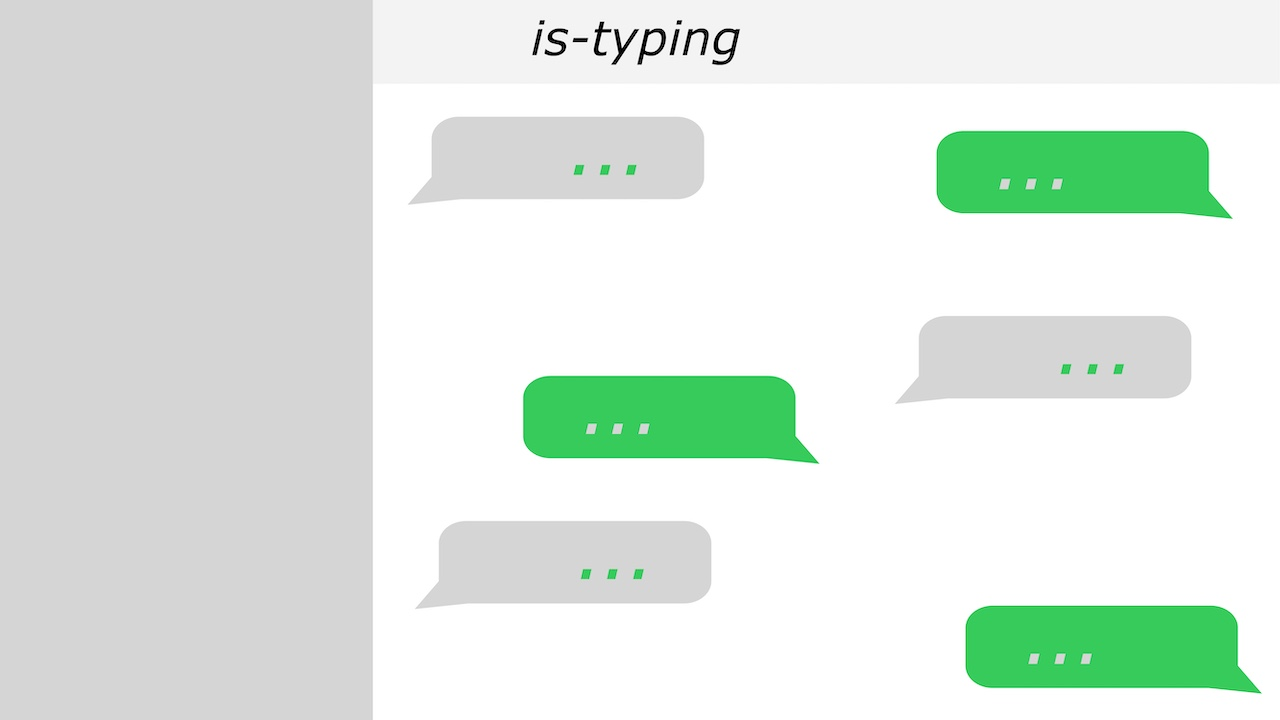
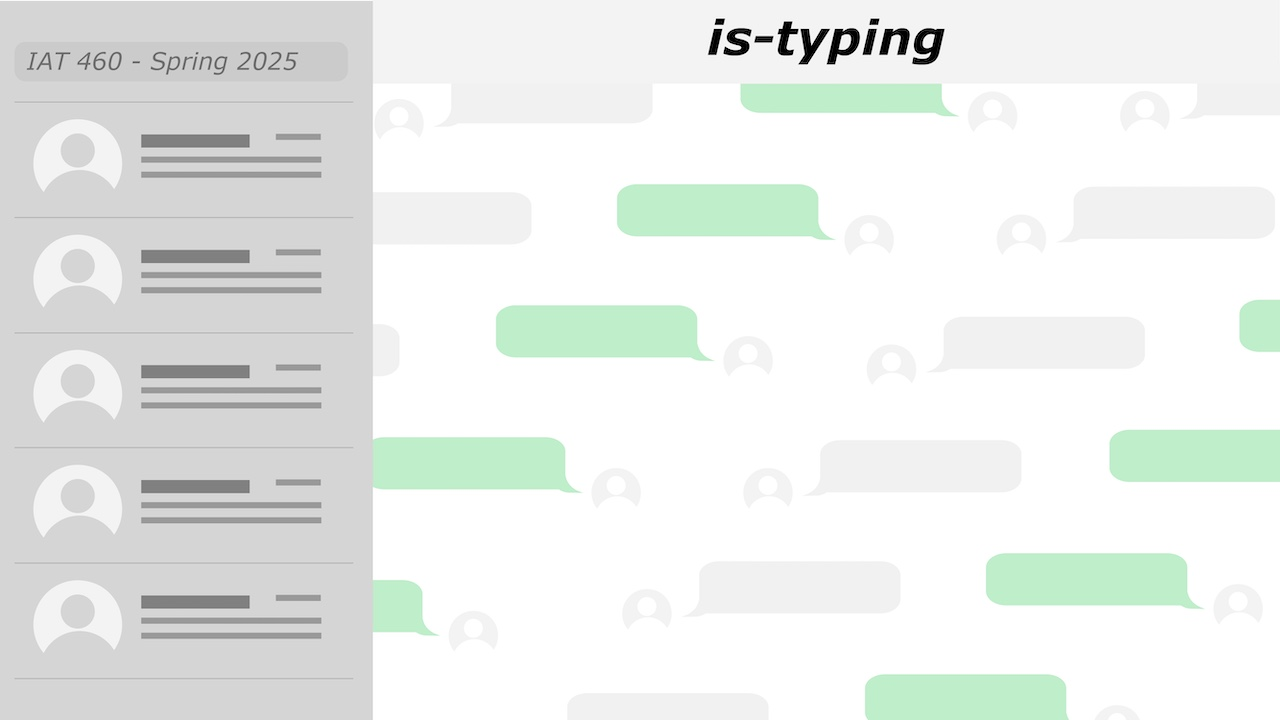
Updated Text Screen visuals

diff --git a/istyping/istyping.py b/istyping/istyping.py
@@ -1,7 +1,7 @@
 import pygame #used this video to review pygame basics: https://www.youtube.com/watch?v=y9VG3Pztok8
 
 #referenced this link to import my own classes: https://csatlas.com/python-import-file-module/
-#import UI.GUI as GUI
+import UI.GUI as GUI
 import GrammarSets.grammarprocessing as grammar
 import GrammarSets.friend as friend
 import GrammarSets.date as date
@@ -12,6 +12,52 @@ import Arduino.arduniohandler as Arduino
 #import time
 
 #referenced this for classes: https://www.w3schools.com/python/python_classes.asp
+
+#initialize/setup pygame
+pygame.init()
+pygame.display.set_caption("is-typing")
+
+#intiliaze fonts
+pygame.font.init()
+font_path = pygame.font.match_font("verdana")
+h1 = pygame.font.Font(font_path, 32)
+h2 = pygame.font.Font(font_path, 16)
+h3 = pygame.font.Font(font_path, 12)
+
+#states for FSM
+MAIN = 0
+INTRO = 1
+FRIEND = 2
+DATE = 3
+BOSS = 4
+END = 5
+
+state = MAIN
+run = True
+
+#current speaker to give to Gemini API for context
+currSpeaker = ""
+
+#variables to keep track of which option was selected by the user
+optionHigh = "Anxious Response!"
+optionNeu = "Neutral Response!"
+optionLow = "Lowkey Response!"
+
+HIGH = 0
+NEUTRAL = 1
+LOW = 2
+
+message_counter = 1
+selected = -1
+
+#setup the window
+SCREEN_WIDTH = 1280
+SCREEN_HEIGHT = 720
+screen = pygame.display.set_mode((1920,1080))
+resized_screen = pygame.transform.scale(screen, (SCREEN_WIDTH, SCREEN_HEIGHT))
+
+window = pygame.display.set_mode((SCREEN_WIDTH, SCREEN_HEIGHT))
+window.blit(resized_screen, (0,0))
 
 #button class, creates a button which has a visual component (rectangle) and text on top of it
 class Button:
@@ -76,6 +122,13 @@ class Fader:
         if self.fading == 'OUT':
             self.alpha += 17
             if self.alpha >= 255:
+                global state, currScreen, currSpeaker, countingdown 
+                if state == MAIN:
+                    preferences.setup()
+                    state = FRIEND      
+                    countingdown = True
+                    currSpeaker = "friend"
+                    currScreen = FriendScreen()
                 self.fading = 'IN'
         else:
             self.alpha -= 17
@@ -83,52 +136,6 @@ class Fader:
                 self.fading = None  
         self.surf.set_alpha(self.alpha)
   
-#initialize/setup pygame
-pygame.init()
-pygame.display.set_caption("is-typing")
-
-#intiliaze fonts
-pygame.font.init()
-font_path = pygame.font.match_font("verdana")
-h1 = pygame.font.Font(font_path, 32)
-h2 = pygame.font.Font(font_path, 16)
-h3 = pygame.font.Font(font_path, 12)
-
-#states for FSM
-MAIN = 0
-INTRO = 1
-FRIEND = 2
-DATE = 3
-BOSS = 4
-END = 5
-
-state = MAIN
-run = True
-
-#current speaker to give to Gemini API for context
-currSpeaker = ""
-
-#variables to keep track of which option was selected by the user
-optionHigh = "Anxious Response!"
-optionNeu = "Neutral Response!"
-optionLow = "Lowkey Response!"
-
-HIGH = 0
-NEUTRAL = 1
-LOW = 2
-
-message_counter = 1
-selected = -1
-
-#setup the window
-SCREEN_WIDTH = 1280
-SCREEN_HEIGHT = 720
-screen = pygame.display.set_mode((1920,1080))
-resized_screen = pygame.transform.scale(screen, (SCREEN_WIDTH, SCREEN_HEIGHT))
-
-window = pygame.display.set_mode((SCREEN_WIDTH, SCREEN_HEIGHT))
-window.blit(resized_screen, (0,0))
-
 # create an instance for Arduino Board
 analogPrinter = Arduino.AnalogPrinter()
 
@@ -153,14 +160,14 @@ class HomeScreen:
 #friendscreen class: holds UI and messages for friend dialogue
 class FriendScreen:
     def __init__(self):
-        self.test = pygame.Rect(100, 100, 250, 75)
         self.name = "FRIEND"
         self.currMessage = grammar.generate('S', friend.friend_grammar1)
         self.text = h1.render(self.currMessage, True, (0,0,0))
         self.posButton = Button(SCREEN_WIDTH-225, SCREEN_HEIGHT-200, 250, 40,  pygame.Rect(SCREEN_WIDTH/2, SCREEN_HEIGHT/2, 250, 40), (0,255,0), h1.render('Start', False, (0,0,0)))
         self.neuButton = Button(SCREEN_WIDTH-225, SCREEN_HEIGHT-150, 250, 40,  pygame.Rect(SCREEN_WIDTH/2, SCREEN_HEIGHT/2, 250, 40), (0,255,0), h1.render('Start', False, (0,0,0)))
         self.negButton = Button(SCREEN_WIDTH-225, SCREEN_HEIGHT-100, 250, 40,  pygame.Rect(SCREEN_WIDTH/2, SCREEN_HEIGHT/2, 250, 40), (0,255,0), h1.render('Start', False, (0,0,0)))
-        
+        self.bg = pygame.image.load("istyping/images/text_screen_bg.jpg")
+
         global optionHigh
         global optionNeu
         global optionLow
@@ -173,14 +180,14 @@ class FriendScreen:
 #datescreen class: holds UI and messages for date dialogue
 class DateScreen:
     def __init__(self):
-        self.test = pygame.Rect(100, 100, 250, 75)
         self.name = "DATE"
         self.currMessage = ""
         self.text = h1.render(self.currMessage, True, (0,0,0))
         self.posButton = Button(SCREEN_WIDTH-225, SCREEN_HEIGHT-200, 250, 40,  pygame.Rect(SCREEN_WIDTH/2, SCREEN_HEIGHT/2, 250, 40), (0,255,0), h1.render('Start', False, (0,0,0)))
         self.neuButton = Button(SCREEN_WIDTH-225, SCREEN_HEIGHT-150, 250, 40,  pygame.Rect(SCREEN_WIDTH/2, SCREEN_HEIGHT/2, 250, 40), (0,255,0), h1.render('Start', False, (0,0,0)))
         self.negButton = Button(SCREEN_WIDTH-225, SCREEN_HEIGHT-100, 250, 40,  pygame.Rect(SCREEN_WIDTH/2, SCREEN_HEIGHT/2, 250, 40), (0,255,0), h1.render('Start', False, (0,0,0)))
-        
+        self.bg = pygame.image.load("istyping/images/text_screen_bg.jpg")
+
         global optionHigh
         global optionNeu
         global optionLow
@@ -193,14 +200,14 @@ class DateScreen:
 #bossscreen class: holds UI and messages for boss dialogue
 class BossScreen:
     def __init__(self):
-        self.test = pygame.Rect(100, 100, 250, 75)
         self.name = "BOSS"
         self.currMessage = grammar.generate('S', boss.boss_grammar1)
         self.text = h1.render(self.currMessage, True, (0,0,0))
         self.posButton = Button(SCREEN_WIDTH-225, SCREEN_HEIGHT-200, 250, 40,  pygame.Rect(SCREEN_WIDTH/2, SCREEN_HEIGHT/2, 250, 40), (0,255,0), h1.render('Start', False, (0,0,0)))
         self.neuButton = Button(SCREEN_WIDTH-225, SCREEN_HEIGHT-150, 250, 40,  pygame.Rect(SCREEN_WIDTH/2, SCREEN_HEIGHT/2, 250, 40), (0,255,0), h1.render('Start', False, (0,0,0)))
         self.negButton = Button(SCREEN_WIDTH-225, SCREEN_HEIGHT-100, 250, 40,  pygame.Rect(SCREEN_WIDTH/2, SCREEN_HEIGHT/2, 250, 40), (0,255,0), h1.render('Start', False, (0,0,0)))
-        
+        self.bg = pygame.image.load("istyping/images/text_screen_bg.jpg")
+
         global optionHigh
         global optionNeu
         global optionLow
@@ -255,53 +262,52 @@ def mainLoop():
             if(startButton.checkMousePress(pos[0], pos[1])):
                 print("start!")
                 fader.next()
-                preferences.setup()
-                state = FRIEND      
-                global currSpeaker, countingdown 
-                countingdown = True
-                currSpeaker = "friend"
-                currScreen = FriendScreen()
             elif(aboutButton.checkMousePress(pos[0], pos[1])):
                 print("about!")  
 
 #text loop - used by the friend, date and boss screens to draw the UI
 def textScreen():
     screen.fill((255,255,255))
-    pygame.draw.rect(screen, (0,255,0), currScreen.test)
-    screen.blit(currScreen.text, currScreen.test)
+    screen.blit(currScreen.bg.convert(), (0,0))
+
+    screen.blit(GUI.profile_icon.convert(), (38,216))
+    their_text = screen.blit(GUI.text_them.convert(), (155,151))
+    screen.blit(currScreen.text, their_text)
+    screen.blit(GUI.profile_icon.convert(), (1143,595))
+
 
     #set up the three text options and draw them
     global optionHigh, optionNeu, optionLow, arduino_countdown
 
-    posButton = currScreen.posButton
-    neuButton = currScreen.neuButton
-    negButton = currScreen.negButton
+    # posButton = currScreen.posButton
+    # neuButton = currScreen.neuButton
+    # negButton = currScreen.negButton
 
-    posButton.draw()
-    neuButton.draw()
-    negButton.draw()
+    # posButton.draw()
+    # neuButton.draw()
+    # negButton.draw()
+    #(posButton.checkMousePress(pygame.mouse.get_pos()[0], pygame.mouse.get_pos()[1])) or
+    #(neuButton.checkMousePress(pygame.mouse.get_pos()[0], pygame.mouse.get_pos()[1])) or
+    # (negButton.checkMousePress(pygame.mouse.get_pos()[0], pygame.mouse.get_pos()[1])) or
 
-    highIndic = pygame.Rect(SCREEN_WIDTH-50, SCREEN_HEIGHT-220, 40, 40)
-    if (posButton.checkMousePress(pygame.mouse.get_pos()[0], pygame.mouse.get_pos()[1])) or analogPrinter.data > (1/3)*2:
-        pygame.draw.rect(screen, (255,0,0), highIndic)
-    else:
-        pygame.draw.rect(screen, (0,255,0), highIndic)
+    if analogPrinter.data > (1/3)*2:
+        screen.blit(GUI.high_indic.convert(), (593,313))
 
-    neutralIndic = pygame.Rect(SCREEN_WIDTH-50, SCREEN_HEIGHT-170, 40, 40)
-    if (neuButton.checkMousePress(pygame.mouse.get_pos()[0], pygame.mouse.get_pos()[1])) or (analogPrinter.data >= 1/3 and analogPrinter.data <= (1/3)*2):
-        pygame.draw.rect(screen, (255,0,0), neutralIndic)
-    else:
-        pygame.draw.rect(screen, (0,255,0), neutralIndic)
+    if (analogPrinter.data >= 1/3 and analogPrinter.data <= (1/3)*2):
+        screen.blit(GUI.neutral_indic.convert(), (593,441))
 
-    lowIndic = pygame.Rect(SCREEN_WIDTH-50, SCREEN_HEIGHT-120, 40, 40)
-    if (negButton.checkMousePress(pygame.mouse.get_pos()[0], pygame.mouse.get_pos()[1])) or analogPrinter.data < 1/3:
-        pygame.draw.rect(screen, (255,0,0), lowIndic)
-    else:
-        pygame.draw.rect(screen, (0,255,0), lowIndic)
+    if  analogPrinter.data < 1/3:
+        screen.blit(GUI.low_indic.convert(), (593,562))
+
+    screen.blit(GUI.thinking_you.convert(), (684,289))
+    screen.blit(GUI.thinking_you.convert(), (684,417))
+    screen.blit(GUI.thinking_you.convert(), (684,539))
 
     screen.blit(h3.render(optionLow, True, (0,0,0)), (SCREEN_WIDTH/2, SCREEN_HEIGHT/2 + 250))
     screen.blit(h3.render(optionNeu, True, (0,0,0)), (SCREEN_WIDTH/2, SCREEN_HEIGHT/2 + 200))
     screen.blit(h3.render(optionHigh, True, (0,0,0)), (SCREEN_WIDTH/2, SCREEN_HEIGHT/2 + 150))
+    
+
     screen.blit(h2.render(currSpeaker, True, (0,0,0)), (20, 20))
     screen.blit(h2.render(str(arduino_countdown), True, (0,0,0)), (20, 40))
 
@@ -402,26 +408,26 @@ def textScreen():
         elif event.type == pygame.MOUSEBUTTONDOWN: #mouse click
             pos = pygame.mouse.get_pos()
 
-            global selected
+            # global selected
             
-            if state == FRIEND or state == DATE:
-                if message_counter <= 4:
-                    if(posButton.checkMousePress(pos[0], pos[1])):
-                        selected = HIGH
-                    elif(neuButton.checkMousePress(pos[0], pos[1])):
-                        selected = NEUTRAL
-                    elif(negButton.checkMousePress(pos[0], pos[1])):
-                        selected = LOW
-                    get_messages()
-            elif state == BOSS:
-                if message_counter <= 5:
-                    if(posButton.checkMousePress(pos[0], pos[1])):
-                        selected = HIGH
-                    elif(neuButton.checkMousePress(pos[0], pos[1])):
-                        selected = NEUTRAL
-                    elif(negButton.checkMousePress(pos[0], pos[1])):
-                        selected = LOW
-                    get_messages()
+            # if state == FRIEND or state == DATE:
+            #     if message_counter <= 4:
+            #         if(posButton.checkMousePress(pos[0], pos[1])):
+            #             selected = HIGH
+            #         elif(neuButton.checkMousePress(pos[0], pos[1])):
+            #             selected = NEUTRAL
+            #         elif(negButton.checkMousePress(pos[0], pos[1])):
+            #             selected = LOW
+            #         get_messages()
+            # elif state == BOSS:
+            #     if message_counter <= 5:
+            #         if(posButton.checkMousePress(pos[0], pos[1])):
+            #             selected = HIGH
+            #         elif(neuButton.checkMousePress(pos[0], pos[1])):
+            #             selected = NEUTRAL
+            #         elif(negButton.checkMousePress(pos[0], pos[1])):
+            #             selected = LOW
+            #         get_messages()
         elif event.type == TIMEREVENT:
             global countingdown
 

diff --git a/istyping/UI/GUI.py b/istyping/UI/GUI.py
@@ -1,33 +1,10 @@
 import pygame
 
-#referenced this for classes: https://www.w3schools.com/python/python_classes.asp
-class Button:
-    def __init__(self, xPos, yPos, width, height, visual, color):
-        self.xPos = xPos
-        self.yPos = yPos
-        self.width = width
-        self.height = height
-        self.visual = visual
-        self.color = color
-        self.text = ""
-        self.centerVisual()
+high_indic = pygame.image.load("istyping/images/high_indic.jpg")
+neutral_indic = pygame.image.load("istyping/images/neutral_indic.jpg")
+low_indic = pygame.image.load("istyping/images/low_indic.jpg")
 
-    def __init__(self, xPos, yPos, width, height, visual, color, text):
-        self.xPos = xPos
-        self.yPos = yPos
-        self.width = width
-        self.height = height
-        self.visual = visual
-        self.color = color
-        self.text = text
-        self.centerVisual()
-
-    def centerVisual(self):
-        self.visual.center = (self.xPos, self.yPos)
-    
-    def checkMousePress(self, mouseX, mouseY):
-        if mouseX > self.xPos-self.width/2 and mouseX < self.xPos + self.width/2 and mouseY > self.yPos-self.width/2 and mouseY < self.yPos + self.height/2:
-            return True
-        
-    def draw(self, wind):
-         pygame.draw.rect(wind, self.color, self.visual, 0, 10)     
+thinking_you = pygame.image.load("istyping/images/thinking_you.jpg")
+text_you = pygame.image.load("istyping/images/text_you.jpg")
+text_them = pygame.image.load("istyping/images/text_them.jpg")
+profile_icon = pygame.image.load("istyping/images/profile_icon.jpg")
